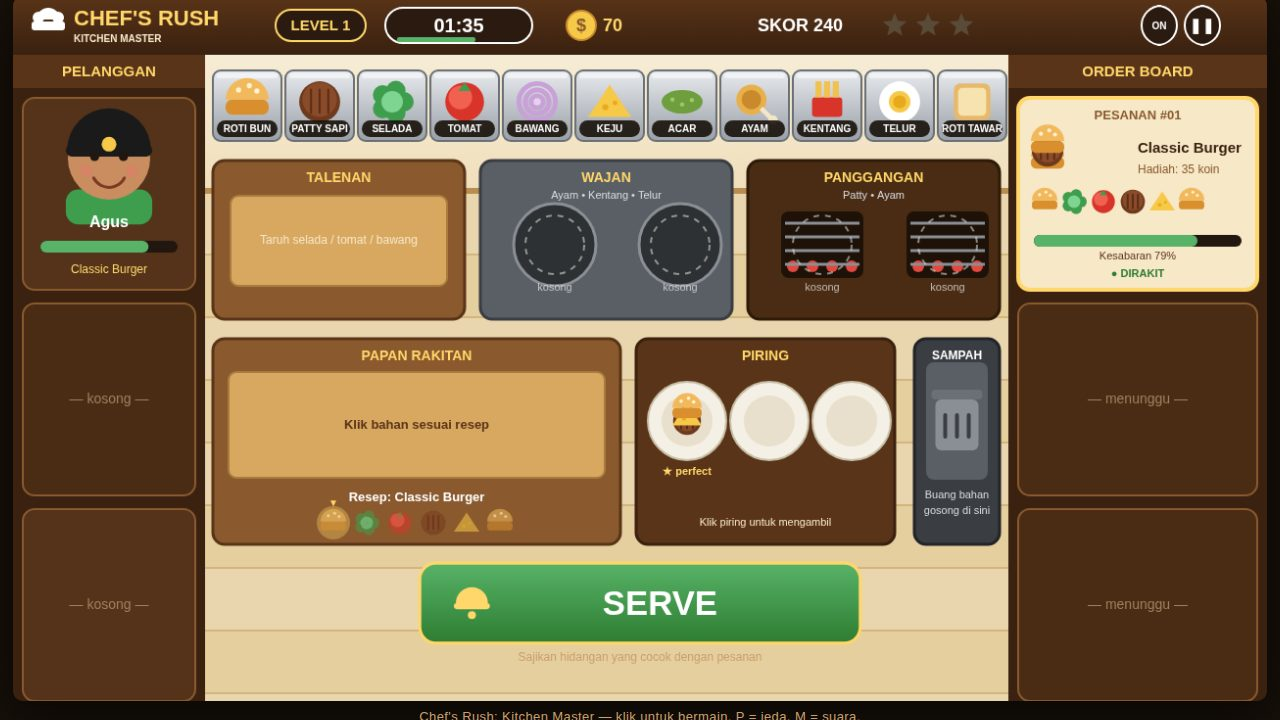
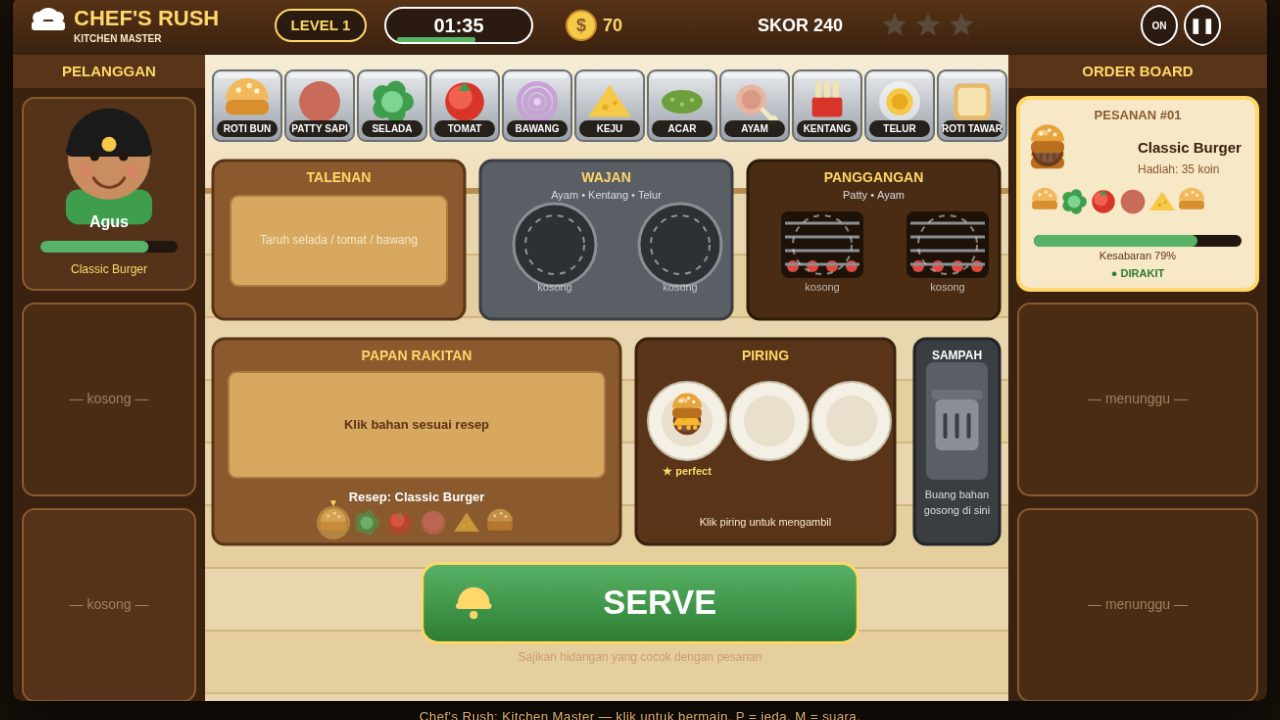
Chef's Rush v1.6: makanan lebih realistis — warna masak bertahap, grill mark, uap, gelembung minyak, garis potong, keju meleleh

diff --git a/game/render.js b/game/render.js
@@ -16,21 +16,76 @@ function pill(c, x, y, w, h, fill, stroke) {
   rr(c, x, y, w, h, h / 2); c.fillStyle = fill; c.fill();
   if (stroke) { c.strokeStyle = stroke; c.lineWidth = 2; c.stroke(); }
 }
+// campur dua warna hex (t 0..1) — untuk perubahan warna saat dimasak
+function mix(a, b, t) {
+  t = Math.max(0, Math.min(1, t));
+  const pa = [1, 3, 5].map(i => parseInt(a.substr(i, 2), 16));
+  const pb = [1, 3, 5].map(i => parseInt(b.substr(i, 2), 16));
+  const m = pa.map((v, i) => Math.round(v + (pb[i] - v) * t));
+  return 'rgb(' + m[0] + ',' + m[1] + ',' + m[2] + ')';
+}
+// petakan quality ('raw'|'good'|'perfect'|'burnt') ke persen masak
+function qPct(q) { return q === 'raw' ? 8 : q === 'perfect' ? 85 : q === 'burnt' ? 115 : 60; }
+// uap/asap naik dari makanan panas
+function drawSteam(c, x, y, t, n, color) {
+  c.save();
+  for (let i = 0; i < n; i++) {
+    const ph = (t * 0.6 + i / n) % 1;
+    const sy = y - ph * 26;
+    const sx = x + Math.sin(ph * 6 + i * 2.2) * 6;
+    c.globalAlpha = (1 - ph) * 0.45;
+    c.fillStyle = color || '#ffffff';
+    circle(c, sx, sy, 3 + ph * 5); c.fill();
+  }
+  c.restore();
+}
+// garis panggangan (grill mark) di atas patty/ayam
+function grillMarks(c, x, y, r) {
+  c.save();
+  c.beginPath(); c.arc(x, y, r, 0, Math.PI * 2); c.clip();
+  c.strokeStyle = 'rgba(40,18,8,0.5)'; c.lineWidth = 4;
+  [-0.5, 0, 0.5].forEach(o => {
+    c.beginPath(); c.moveTo(x + o * r - r * 0.4, y - r); c.lineTo(x + o * r + r * 0.4, y + r); c.stroke();
+  });
+  c.restore();
+}
 
 // ---- Gambar makanan (ikon per bahan) ----
-export function drawFood(c, item, x, y, s) {
+// pct = persen masak (0 mentah, 71-90 perfect, >100 gosong). Tanpa pct = mentah.
+export function drawFood(c, item, x, y, s, pct) {
   const u = s / 2;
+  const p = pct == null ? 0 : pct;
   c.save(); c.translate(x, y);
   if (item === 'bun') {
-    c.fillStyle = '#d98f2e'; rr(c, -u, -u * 0.1, s, u * 0.7, u * 0.3); c.fill();
-    c.fillStyle = '#f2b95c'; c.beginPath(); c.arc(0, -u * 0.1, u, Math.PI, 0); c.fill();
+    const toasted = p >= 60;
+    c.fillStyle = toasted ? '#b96f1e' : '#d98f2e'; rr(c, -u, -u * 0.1, s, u * 0.7, u * 0.3); c.fill();
+    c.fillStyle = toasted ? '#e8a33c' : '#f2b95c'; c.beginPath(); c.arc(0, -u * 0.1, u, Math.PI, 0); c.fill();
+    if (toasted) {
+      c.fillStyle = 'rgba(255,240,200,0.55)';
+      c.beginPath(); c.arc(-u * 0.3, -u * 0.45, u * 0.35, Math.PI, 0); c.fill();
+    }
     c.fillStyle = '#fff2cf';
-    [[-0.4, -0.55], [0.1, -0.75], [0.45, -0.5]].forEach(p => { circle(c, p[0] * u, p[1] * u, u * 0.12); c.fill(); });
+    [[-0.4, -0.55], [0.1, -0.75], [0.45, -0.5]].forEach(pt => { circle(c, pt[0] * u, pt[1] * u, u * 0.12); c.fill(); });
   } else if (item === 'patty') {
-    c.fillStyle = '#6e3a1e'; circle(c, 0, 0, u * 0.95); c.fill();
-    c.fillStyle = '#8a4b2a'; circle(c, 0, -u * 0.1, u * 0.8); c.fill();
-    c.strokeStyle = '#5a2e16'; c.lineWidth = 2;
-    [-0.4, 0, 0.4].forEach(o => { c.beginPath(); c.moveTo(o * u, -u * 0.6); c.lineTo(o * u, u * 0.55); c.stroke(); });
+    // mentah merah muda -> cokelat keemasan -> gosong hampir hitam
+    let col;
+    if (p < 26) col = mix('#c96a5a', '#8a4b2a', p / 26);
+    else if (p <= 70) col = mix('#8a4b2a', '#6e3a1e', (p - 26) / 44);
+    else if (p <= 90) col = '#6e3a1e';
+    else if (p <= 100) col = mix('#6e3a1e', '#3a1c0c', (p - 90) / 10);
+    else col = '#241209';
+    c.fillStyle = col; circle(c, 0, 0, u * 0.95); c.fill();
+    c.fillStyle = mix(col, '#ffffff', 0.14); circle(c, 0, -u * 0.1, u * 0.8); c.fill();
+    if (p >= 26 && p <= 100) {
+      // kilau sear + serat daging
+      c.fillStyle = 'rgba(255,220,170,0.35)';
+      c.beginPath(); c.arc(-u * 0.25, -u * 0.35, u * 0.4, Math.PI, 0); c.fill();
+      c.strokeStyle = 'rgba(60,30,12,0.4)'; c.lineWidth = 2;
+      [-0.4, 0, 0.4].forEach(o => { c.beginPath(); c.moveTo(o * u, -u * 0.6); c.lineTo(o * u, u * 0.55); c.stroke(); });
+    }
+    if (p > 100) {
+      c.fillStyle = 'rgba(0,0,0,0.35)'; circle(c, 0, 0, u * 0.7); c.fill();
+    }
   } else if (item === 'lettuce') {
     c.fillStyle = '#3f9e4d';
     for (let i = 0; i < 5; i++) { const a = (i / 5) * Math.PI * 2; circle(c, Math.cos(a) * u * 0.55, Math.sin(a) * u * 0.55, u * 0.45); c.fill(); }
@@ -44,25 +99,68 @@ export function drawFood(c, item, x, y, s) {
     [0.85, 0.55, 0.28].forEach(r => { circle(c, 0, 0, u * r); c.stroke(); });
     c.fillStyle = '#e8d0f0'; circle(c, 0, 0, u * 0.16); c.fill();
   } else if (item === 'cheese') {
-    c.fillStyle = '#f7c948'; c.beginPath(); c.moveTo(-u, u * 0.7); c.lineTo(u, u * 0.7); c.lineTo(0, -u * 0.8); c.closePath(); c.fill();
+    const melted = p >= 60;
+    c.fillStyle = melted ? '#f7b62e' : '#f7c948';
+    c.beginPath(); c.moveTo(-u, u * 0.7); c.lineTo(u, u * 0.7); c.lineTo(0, -u * 0.8); c.closePath(); c.fill();
+    if (melted) {
+      // lelehan keju menetes di bawah
+      c.fillStyle = '#f7b62e';
+      [-0.5, 0.1, 0.55].forEach(o => { circle(c, o * u, u * 0.85, u * 0.16); c.fill(); });
+      c.fillStyle = 'rgba(255,235,160,0.6)';
+      c.beginPath(); c.moveTo(-u * 0.5, u * 0.2); c.lineTo(u * 0.3, u * 0.2); c.lineTo(0, -u * 0.5); c.closePath(); c.fill();
+    }
     c.fillStyle = '#e8a91e'; circle(c, -u * 0.2, u * 0.25, u * 0.14); c.fill(); circle(c, u * 0.25, u * 0.05, u * 0.11); c.fill();
   } else if (item === 'pickle') {
     c.fillStyle = '#6f9e3f'; c.beginPath(); c.ellipse(0, 0, u * 0.95, u * 0.55, 0, 0, Math.PI * 2); c.fill();
     c.fillStyle = '#9ccb6a';
     [[-0.45, -0.1], [0, 0.12], [0.45, -0.08]].forEach(p => { circle(c, p[0] * u, p[1] * u, u * 0.1); c.fill(); });
   } else if (item === 'chicken') {
-    c.fillStyle = '#e8b04b'; circle(c, -u * 0.15, -u * 0.1, u * 0.7); c.fill();
-    c.fillStyle = '#c98a2e'; circle(c, -u * 0.15, -u * 0.1, u * 0.45); c.fill();
+    // mentah pucat kemerahan -> keemasan -> gosong
+    let col, dark;
+    if (p < 26) { col = '#e8b4a0'; dark = '#d89a86'; }
+    else if (p <= 70) { col = mix('#e8b4a0', '#e8b04b', (p - 26) / 44); dark = mix('#d89a86', '#c98a2e', (p - 26) / 44); }
+    else if (p <= 90) { col = '#e8b04b'; dark = '#c98a2e'; }
+    else if (p <= 100) { col = mix('#e8b04b', '#7a4a1e', (p - 90) / 10); dark = mix('#c98a2e', '#5a3410', (p - 90) / 10); }
+    else { col = '#2e1a10'; dark = '#1e1008'; }
+    c.fillStyle = col; circle(c, -u * 0.15, -u * 0.1, u * 0.7); c.fill();
+    c.fillStyle = dark; circle(c, -u * 0.15, -u * 0.1, u * 0.45); c.fill();
+    if (p >= 26 && p <= 100) {
+      c.fillStyle = 'rgba(255,230,180,0.4)';
+      c.beginPath(); c.arc(-u * 0.35, -u * 0.35, u * 0.3, Math.PI, 0); c.fill();
+    }
     c.strokeStyle = '#f5e6c8'; c.lineWidth = u * 0.22; c.beginPath(); c.moveTo(u * 0.3, u * 0.3); c.lineTo(u * 0.8, u * 0.8); c.stroke();
     c.fillStyle = '#f5e6c8'; circle(c, u * 0.85, u * 0.85, u * 0.22); c.fill();
   } else if (item === 'fries') {
+    // mentah pucat -> kuning keemasan -> cokelat gosong
+    let stick;
+    if (p < 26) stick = '#f2e3b0';
+    else if (p <= 70) stick = mix('#f2e3b0', '#f2c14e', (p - 26) / 44);
+    else if (p <= 90) stick = '#f2c14e';
+    else if (p <= 100) stick = mix('#f2c14e', '#8a5a2e', (p - 90) / 10);
+    else stick = '#3a2410';
     c.fillStyle = '#d8342a'; rr(c, -u * 0.7, -u * 0.2, u * 1.4, u * 0.9, u * 0.15); c.fill();
-    c.strokeStyle = '#f2c14e'; c.lineWidth = u * 0.28;
+    c.strokeStyle = stick; c.lineWidth = u * 0.28;
     [-0.4, 0, 0.4].forEach(o => { c.beginPath(); c.moveTo(o * u, -u * 0.2); c.lineTo(o * u, -u * 0.95); c.stroke(); });
+    if (p >= 26 && p <= 100) {
+      c.fillStyle = 'rgba(255,255,255,0.5)';
+      circle(c, -u * 0.4, -u * 0.8, u * 0.08); c.fill(); circle(c, u * 0.1, -u * 0.9, u * 0.06); c.fill();
+    }
   } else if (item === 'egg') {
+    // mentah: putih bening + kuning encer -> matang: putih padat + kuning kokoh -> gosong: tepi cokelat
+    const cooked = Math.min(1, Math.max(0, (p - 10) / 60));
+    c.save(); c.globalAlpha = 0.55 + 0.45 * cooked;
     c.fillStyle = '#ffffff'; circle(c, 0, 0, u * 0.95); c.fill();
-    c.fillStyle = '#f7c948'; circle(c, 0, 0, u * 0.5); c.fill();
-    c.fillStyle = '#e8a91e'; circle(c, 0, 0, u * 0.3); c.fill();
+    c.restore();
+    const yolkR = u * (0.62 - 0.12 * cooked);
+    c.fillStyle = p > 100 ? '#8a5a1e' : '#f7c948'; circle(c, 0, 0, yolkR); c.fill();
+    c.fillStyle = p > 100 ? '#5a3410' : '#e8a91e'; circle(c, 0, 0, yolkR * 0.6); c.fill();
+    if (p > 100) {
+      c.strokeStyle = '#5a3410'; c.lineWidth = 3;
+      c.beginPath(); c.arc(0, 0, u * 0.9, 0, Math.PI * 2); c.stroke();
+    } else if (p >= 26) {
+      c.fillStyle = 'rgba(255,255,255,0.7)';
+      c.beginPath(); c.arc(-u * 0.3, -u * 0.35, u * 0.22, Math.PI, 0); c.fill();
+    }
   } else if (item === 'bread') {
     c.fillStyle = '#e8b96a'; rr(c, -u * 0.85, -u * 0.85, u * 1.7, u * 1.7, u * 0.3); c.fill();
     c.fillStyle = '#f7e3b0'; rr(c, -u * 0.65, -u * 0.65, u * 1.3, u * 1.3, u * 0.2); c.fill();
@@ -294,6 +392,14 @@ function drawStations(c, g) {
     c.save(); c.translate(ch.x + ch.w / 2 + 52, ch.y + 82); c.rotate(-0.5 + Math.sin(g.time * 20) * 0.08);
     c.fillStyle = '#d8dce2'; rr(c, -8, -26, 16, 52, 4); c.fill();
     c.fillStyle = '#3a2110'; rr(c, -6, 26, 12, 22, 4); c.fill(); c.restore();
+    // garis potong muncul bertahap mengikuti progres
+    const prog = g.chop.clicks / COOK.chopClicks;
+    c.strokeStyle = 'rgba(60,30,12,0.55)'; c.lineWidth = 2;
+    [[-12, 0.25], [0, 0.5], [12, 0.75]].forEach(([o, th]) => {
+      if (prog >= th) {
+        c.beginPath(); c.moveTo(ch.x + ch.w / 2 - 30 + o, ch.y + 64); c.lineTo(ch.x + ch.w / 2 - 30 + o, ch.y + 100); c.stroke();
+      }
+    });
     const p = (g.chop.clicks / COOK.chopClicks) * 100;
     text(c, 'Klik untuk memotong!', ch.x + ch.w / 2, ch.y + 136, 11, '#ffffff', 'center', false);
     cookBar(c, ch.x + 40, ch.y + 150, ch.w - 80, p);
@@ -312,14 +418,21 @@ function drawStations(c, g) {
     c.strokeStyle = '#8a8f96'; c.lineWidth = 3; c.stroke();
     const slot = g.fry[i];
     if (slot) {
-      drawFood(c, slot.item, sx + 42, sy + 34, 52);
       const pct = cookPct(g, slot, 'fry');
+      // minyak panas berkilau di wajan
+      c.fillStyle = 'rgba(232,180,60,0.35)'; circle(c, sx + 42, sy + 34, 36); c.fill();
+      drawFood(c, slot.item, sx + 42, sy + 34, 52, pct);
       cookBar(c, sx, sy + 86, 84, pct);
-      if (pct > 100) { c.fillStyle = 'rgba(60,60,60,0.5)'; circle(c, sx + 42, sy + 34, 30); c.fill(); }
-      if (pct >= 26 && pct <= 100) {
-        c.fillStyle = 'rgba(255,255,255,0.7)';
-        circle(c, sx + 30 + Math.sin(g.time * 6 + i) * 6, sy + 10, 3); c.fill();
-        circle(c, sx + 55 + Math.cos(g.time * 5 + i) * 6, sy + 4, 2.5); c.fill();
+      if (pct > 100) {
+        c.fillStyle = 'rgba(60,60,60,0.5)'; circle(c, sx + 42, sy + 34, 30); c.fill();
+        drawSteam(c, sx + 42, sy + 6, g.time + i, 2, '#7a7a7a');
+      } else if (pct >= 26) {
+        drawSteam(c, sx + 42, sy + 6, g.time + i, pct >= 71 ? 3 : 2);
+        // gelembung minyak berdesis
+        c.fillStyle = 'rgba(255,235,160,0.85)';
+        [[20, 52], [42, 60], [64, 50]].forEach((b, k) => {
+          circle(c, sx + b[0] + Math.sin(g.time * 7 + k * 2 + i) * 4, sy + b[1] + Math.cos(g.time * 5 + k) * 3, 2.5); c.fill();
+        });
       }
     } else {
       emptySlot(c, sx + 42, sy + 34);
@@ -344,9 +457,17 @@ function drawStations(c, g) {
     if (slot) {
       const pct = cookPct(g, slot, 'grill');
       if (pct >= 26 && pct <= 100) { drawFlame(c, sx + 20, sy + 66, g.time, 0.8); drawFlame(c, sx + 64, sy + 66, g.time + 1, 0.7); }
-      drawFood(c, slot.item, sx + 42, sy + 34, 52);
+      drawFood(c, slot.item, sx + 42, sy + 34, 52, pct);
+      if (pct > 40 && pct <= 100 && (slot.item === 'patty' || slot.item === 'chicken')) {
+        grillMarks(c, sx + 42, sy + 34, 26);
+      }
       cookBar(c, sx, sy + 86, 84, pct);
-      if (pct > 100) { c.fillStyle = 'rgba(60,60,60,0.5)'; circle(c, sx + 42, sy + 34, 30); c.fill(); }
+      if (pct > 100) {
+        c.fillStyle = 'rgba(60,60,60,0.5)'; circle(c, sx + 42, sy + 34, 30); c.fill();
+        drawSteam(c, sx + 42, sy + 6, g.time + i, 2, '#7a7a7a');
+      } else if (pct >= 26) {
+        drawSteam(c, sx + 42, sy + 6, g.time + i, pct >= 71 ? 3 : 2);
+      }
     } else {
       emptySlot(c, sx + 42, sy + 34);
     }
@@ -372,7 +493,7 @@ function drawBoard(c, g) {
     g.board.forEach((layer, i) => {
       const ly = b.y + 128 - i * 12;
       const lx = b.x + b.w / 2;
-      drawFood(c, layer.item, lx, ly, 40);
+      drawFood(c, layer.item, lx, ly, 40, qPct(layer.quality));
       if (layer.quality === 'burnt') { text(c, '✕ gosong', lx + 60, ly, 11, '#e2483d', 'left'); }
       else if (layer.quality === 'perfect') { text(c, '★', lx + 60, ly, 13, '#ffd76a', 'left'); }
     });
@@ -416,8 +537,9 @@ function drawPlates(c, g) {
     if (dish) {
       const recipe = RECIPES[dish.recipeId];
       // gambar mini hidangan: tumpuk 3 layer teratas
+      const dp = dish.burnt ? 115 : dish.perfect ? 85 : 60;
       const layers = recipe.layers.slice(-3);
-      layers.forEach((layer, k) => drawFood(c, layer.item, x, y - k * 6, 30));
+      layers.forEach((layer, k) => drawFood(c, layer.item, x, y - k * 6, 30, dp));
       if (dish.burnt) text(c, 'gosong', x, y + 52, 11, '#e2483d');
       else if (dish.perfect) text(c, '★ perfect', x, y + 52, 11, '#ffd76a');
       else text(c, recipe.name, x, y + 52, 10, '#ffffff', 'center', false);
@@ -477,7 +599,7 @@ function drawOrderBoard(c, g) {
       text(c, 'PESANAN #' + String(o.id).padStart(2, '0'), L.railR.x + 132, y + 18, 13, '#8a5a2e');
       // ikon hidangan: tumpukan mini 3 lapis (bukan 1 bahan saja)
       const iconLayers = [recipe.layers[0], recipe.layers[Math.floor(recipe.layers.length / 2)], recipe.layers[recipe.layers.length - 1]];
-      iconLayers.forEach((layer, k) => drawFood(c, layer.item, L.railR.x + 40, y + 62 - k * 8, 34));
+      iconLayers.forEach((layer, k) => drawFood(c, layer.item, L.railR.x + 40, y + 62 - k * 8, 34, 85));
       text(c, recipe.name, L.railR.x + 132, y + 52, 15, '#3a2110', 'left');
       text(c, 'Hadiah: ' + o.reward + ' koin', L.railR.x + 132, y + 74, 12, '#8a5a2e', 'left', false);
       // daftar bahan
@@ -591,10 +713,11 @@ function drawHeld(c, g, mx, my) {
     const recipe = RECIPES[g.held.recipeId];
     c.fillStyle = '#f5f0e6'; circle(c, mx, my, 26); c.fill();
     c.strokeStyle = '#c8bfa8'; c.lineWidth = 2; c.stroke();
-    recipe.layers.slice(-2).forEach((layer, k) => drawFood(c, layer.item, mx, my - k * 5, 26));
+    const dp = g.held.burnt ? 115 : g.held.perfect ? 85 : 60;
+    recipe.layers.slice(-2).forEach((layer, k) => drawFood(c, layer.item, mx, my - k * 5, 26, dp));
     text(c, recipe.name, mx, my + 40, 11, '#ffffff');
   } else {
-    drawFood(c, g.held.item, mx, my, 44);
+    drawFood(c, g.held.item, mx, my, 44, qPct(g.held.quality));
     const label = INGREDIENTS[g.held.item].name + (g.held.process !== 'raw' ? ' (' + g.held.process + ')' : '');
     pill(c, mx - 52, my + 26, 104, 20, 'rgba(20,12,6,0.85)');
     text(c, label, mx, my + 37, 10, '#ffffff');
